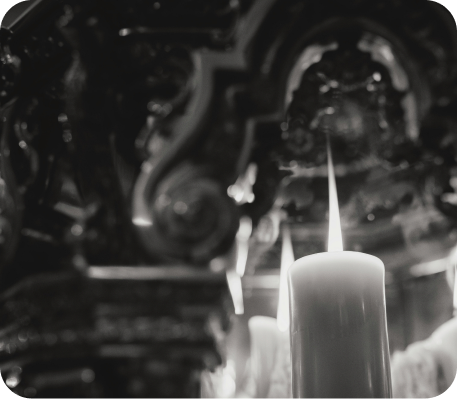
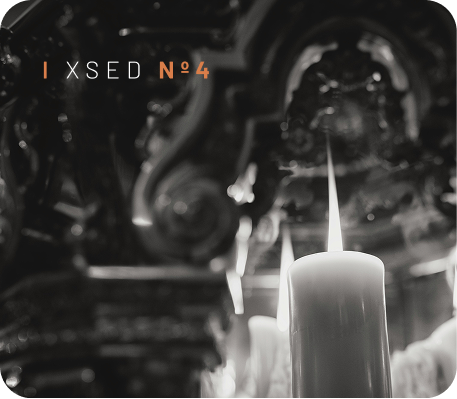
refactor: update XSED campaign email template with new image handling and responsive styling adjustments

diff --git a/src/emails/XsedCampaign.tsx b/src/emails/XsedCampaign.tsx
@@ -17,7 +17,7 @@ import {
 } from "@react-email/components";
 import * as React from "react";
 
-const BASE_URL = "http://localhost:3010";
+const BASE_URL = "https://getrandomtrip.com";
 const XSED_URL = `${BASE_URL}/es/xsed`;
 
 const img = (path: string) => `${BASE_URL}${path}`;
@@ -30,6 +30,17 @@ export default function XsedCampaign() {
           rel="stylesheet"
           href="https://fonts.googleapis.com/css2?family=Barlow+Condensed:wght@300;700;800&family=Barlow:wght@400;500;600;700&display=swap"
         />
+        <style>{`
+          @media only screen and (max-width: 480px) {
+            .col-half {
+              display: block !important;
+              width: 100% !important;
+              padding-left: 20px !important;
+              padding-right: 20px !important;
+              margin-bottom: 16px !important;
+            }
+          }
+        `}</style>
         <Font
           fontFamily="Barlow Condensed"
           fallbackFontFamily="Arial"
@@ -131,24 +142,16 @@ export default function XsedCampaign() {
           <Section style={dropFeaturedSection}>
             <Row>
               <Column>
-                <div style={dropImageWrapper}>
-                  <Img
-                    src={img("/images/newsletter/xsed-drop-mendoza.png")}
-                    width="540"
-                    alt="Mendoza desde arriba — XSED Nº5"
-                    style={{
-                      display: "block",
-                      width: "100%",
-                      borderRadius: "4px",
-                    }}
-                  />
-                  <div style={dropBadgeOverlay}>
-                    <Text style={dropBadgeText}>
-                      <span style={badgeAccent}>|</span> XSED{" "}
-                      <span style={badgeAccent}>Nº5</span>
-                    </Text>
-                  </div>
-                </div>
+                <Img
+                  src={img("/images/newsletter/xsed-drop-mendoza.png")}
+                  width="540"
+                  alt="Mendoza desde arriba — XSED Nº5"
+                  style={{
+                    display: "block",
+                    width: "100%",
+                    borderRadius: "4px",
+                  }}
+                />
               </Column>
             </Row>
             <Row>
@@ -163,47 +166,23 @@ export default function XsedCampaign() {
           {/* ── Two smaller drops ── */}
           <Row style={{ margin: "0", padding: "0 0 16px" }}>
             <Column style={smallDropColumnLeft}>
-              <div style={dropImageWrapper}>
-                <Img
-                  src={img("/images/newsletter/xsed-drop-formosa.png")}
-                  width="264"
-                  alt="Formosa tiene un secreto — XSED Nº4"
-                  style={{
-                    display: "block",
-                    width: "100%",
-                    borderRadius: "4px",
-                  }}
-                />
-                <div style={dropBadgeOverlay}>
-                  <Text style={dropBadgeText}>
-                    <span style={badgeAccent}>|</span> XSED{" "}
-                    <span style={badgeAccent}>Nº4</span>
-                  </Text>
-                </div>
-              </div>
+              <Img
+                src={img("/images/newsletter/xsed-drop-formosa.png")}
+                width="264"
+                alt="Formosa tiene un secreto — XSED Nº4"
+                style={{ display: "block", width: "100%", borderRadius: "4px" }}
+              />
               <Text style={dropDate}>20 marzo 2026</Text>
               <Text style={dropTitle}>Formosa tiene un secreto</Text>
               <Hr style={dropDivider} />
             </Column>
             <Column style={smallDropColumnRight}>
-              <div style={dropImageWrapper}>
-                <Img
-                  src={img("/images/newsletter/xsed-drop-tucuman.png")}
-                  width="264"
-                  alt="Tucumán star night — XSED Nº3"
-                  style={{
-                    display: "block",
-                    width: "100%",
-                    borderRadius: "4px",
-                  }}
-                />
-                <div style={dropBadgeOverlay}>
-                  <Text style={dropBadgeText}>
-                    <span style={badgeAccent}>|</span> XSED{" "}
-                    <span style={badgeAccent}>Nº3</span>
-                  </Text>
-                </div>
-              </div>
+              <Img
+                src={img("/images/newsletter/xsed-drop-tucuman.png")}
+                width="264"
+                alt="Tucumán star night — XSED Nº3"
+                style={{ display: "block", width: "100%", borderRadius: "4px" }}
+              />
               <Text style={dropDate}>2 enero 2026</Text>
               <Text style={dropTitle}>Tucumán star night</Text>
               <Hr style={dropDivider} />
@@ -231,7 +210,7 @@ export default function XsedCampaign() {
 
           {/* ── Testimonials ── */}
           <Row style={testimonialsRow}>
-            <Column style={testimonialColumn}>
+            <Column style={testimonialColumn} className="col-half">
               <Section style={testimonialCard}>
                 <Text style={testimonialQuote}>
                   Compré el Drop el domingo. El sábado estaba tomando vino en un
@@ -256,7 +235,7 @@ export default function XsedCampaign() {
                 </Link>
               </Section>
             </Column>
-            <Column style={testimonialColumn}>
+            <Column style={testimonialColumn} className="col-half">
               <Section style={testimonialCard}>
                 <Text style={testimonialQuote}>
                   La adrenalina de abrir el WhatsApp 48 horas antes para ver a
@@ -441,34 +420,6 @@ const dropFeaturedSection: React.CSSProperties = {
   marginBottom: "40px",
 };
 
-const dropImageWrapper: React.CSSProperties = {
-  position: "relative",
-  display: "block",
-  fontSize: "0",
-  lineHeight: "0",
-};
-
-const dropBadgeOverlay: React.CSSProperties = {
-  position: "absolute",
-  top: "20px",
-  left: "20px",
-  padding: "3px 8px",
-};
-
-const badgeAccent: React.CSSProperties = {
-  color: "#d97e4a",
-};
-
-const dropBadgeText: React.CSSProperties = {
-  fontFamily: "'Barlow', Arial, sans-serif",
-  color: "#ffffff",
-  fontSize: "12px",
-  fontWeight: "700",
-  margin: "0",
-  lineHeight: "1.4",
-  letterSpacing: "3px",
-};
-
 const dropDate: React.CSSProperties = {
   fontFamily: "'Barlow', Arial, sans-serif",
   color: "#d97e4a",
@@ -481,7 +432,7 @@ const dropDate: React.CSSProperties = {
 };
 
 const dropTitle: React.CSSProperties = {
-  fontFamily: "'Barlow Condensed', Impact, 'Arial Narrow', Arial, sans-serif",
+  fontFamily: "'Barlow Condensed', 'Arial Narrow', Arial, sans-serif",
   color: "#888787",
   fontSize: "25px",
   fontWeight: "300",